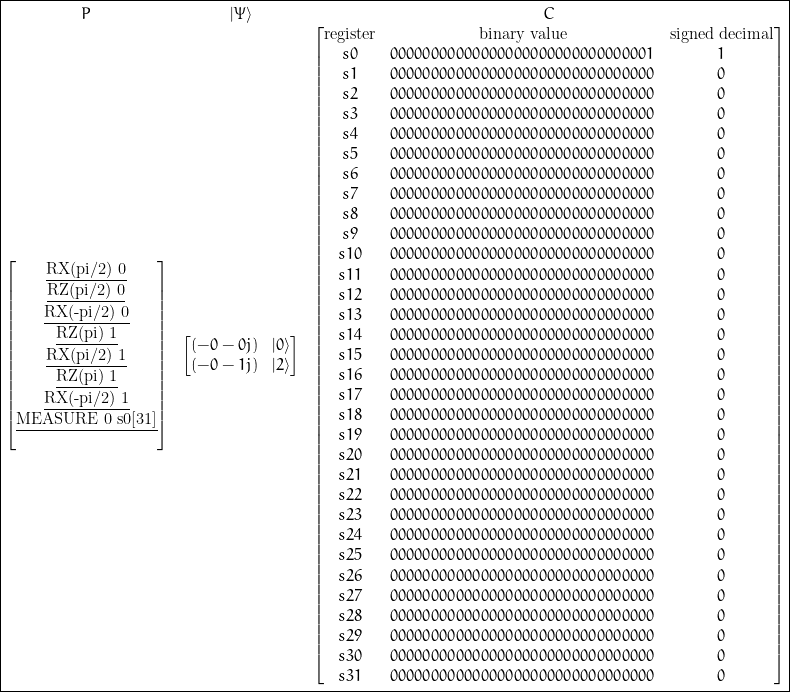
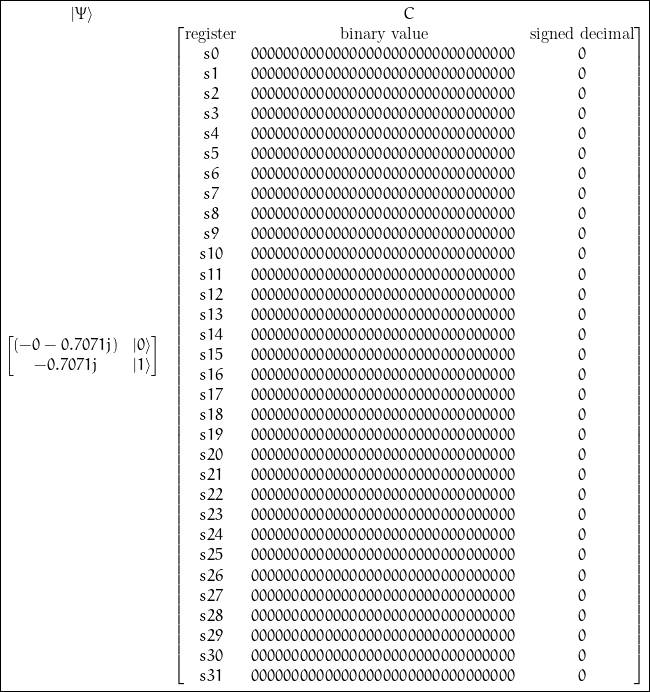
Add files via upload

diff --git a/pyQuil2.py b/pyQuil2.py
@@ -1,0 +1,90 @@
+from pyquil import Program,get_qc
+from pyquil.api import WavefunctionSimulator
+from sympy import preview
+from numpy import round
+import traceback
+from q9 import *
+from Convert import *
+import tkinter as tk
+from tkinter import PhotoImage,Button,Text,Label
+from threading import Thread
+
+# Create the main window
+parent = tk.Tk()
+parent.title("9q")
+PO = ProgramOutput("")
+PO.run_and_display()
+
+image = PhotoImage(file="QVMout.png")
+image_label = tk.Label(parent, image=image,borderwidth=5,relief='solid')
+def start_tryout():
+    compiled_program.configure(bg='yellow')
+    compiled_program.bg = 'yellow'
+    Thread(target=compute, daemon=True).start()
+    # deamon=True is important so that you can close the program correctly
+
+def compute():
+    #P = open("QuilProgram.txt",'r').read()
+    try:
+        compiled_program.delete("1.0",'end')
+        S = og_program.get("1.0","end-1c")
+        #S = open("mips_program.txt").read()
+        S = S.split("\n")
+        S = [extract_inst(s,PO.qc) for s in S]
+        P = "\n".join(S)
+        #print(S,"\n")
+        rep = PO.Burn(P)
+        if rep is not False:
+            compiled_program.insert("end","COMPILATION PROBLEM\n" + rep)
+            compiled_program.configure(bg='red')
+            compiled_program.bg = 'red'
+            return False
+        rep = PO.run()
+        if rep is not False:
+            compiled_program.insert("end","RUNTIME PROBLEM\n" + rep)
+            compiled_program.configure(bg='red')
+            compiled_program.bg = 'red'
+            return False
+        rep = PO.display()
+        if rep is not False:
+            compiled_program.insert("end","RENDERING PROBLEM\n" + rep)
+            compiled_program.configure(bg='red')
+            compiled_program.bg = 'red'
+            return False
+        image = PhotoImage(file="QVMout.png")
+        image_label.configure(image=image)
+        image_label.image = image
+        PC = PO.Program[41:]
+        compiled_program.configure(bg='light green')
+        compiled_program.bg = 'light green'
+        compiled_program.insert("end","\n".join(PC))
+        return True
+    except:
+        rep = traceback.format_exc()
+        compiled_program.delete("1.0",'end')
+        compiled_program.insert("end","GENERAL PROBLEM\n" + rep)
+        compiled_program.configure(bg='red')
+        compiled_program.bg = 'red'
+        return False
+og_program_label = Label(parent,text="Program")
+compiled_program_label = Label(parent,text="Compiled Program")
+output_label = Label(parent,text="States and Memory")
+og_program = Text(parent,bg='light yellow',width=30,height=29,borderwidth=3,relief='solid')
+compiled_program = Text(parent,bg='light green',width=30,height=29,borderwidth=3,relief='solid')
+compile_button=Button(command = start_tryout, text = "Compile and Run",borderwidth=3) ###
+og_program_label.grid(row=0,column=0,rowspan=1)
+compiled_program_label.grid(row=0,column=1,rowspan=1)
+output_label.grid(row=0,column=2,rowspan=1)
+og_program.grid(row=1,column=0,rowspan=3,columnspan=1)
+compiled_program.grid(row=1,column=1,rowspan=3,columnspan=1)
+image_label.grid(row=1,column=2,rowspan=3,columnspan=1)
+compile_button.grid(row=4,column=0,columnspan=3,ipadx=580)
+
+n_rows =5
+n_columns =3
+for i in range(n_rows):
+    parent.grid_rowconfigure(i,  weight =1)
+for i in range(n_columns):
+    parent.grid_columnconfigure(i,  weight =1)
+# Start the Tkinter event loop
+parent.mainloop()

diff --git a/q9.py b/q9.py
@@ -1,6 +1,7 @@
 from pyquil import Program,get_qc
 from pyquil.api import WavefunctionSimulator
 from numpy import round
+from sympy import preview
 import traceback
 from IPython.display import display_latex,Latex
 
@@ -274,9 +275,9 @@ class ProgramOutput:
         self.qc = get_qc(qc_name)
         self.wfs = WavefunctionSimulator()
         P = preproc(P)
-        P = "\n".join([f"DECLARE s{i} BIT[32]" for i in range(32)]) + P
+        P = "\n".join([f"DECLARE s{i} BIT[32]" for i in range(32)]) +"\n" + P
         P = Program(P)
-        P = self.qc.compile(P)
+        #P = self.qc.compile(P)
         P = str(P)
         P = P.split("\n")
         self.Program = P
@@ -286,9 +287,10 @@ class ProgramOutput:
 
     def Burn(self,P):
         try:
-            P = "\n".join([f"DECLARE s{i} BIT[32]" for i in range(32)]) + P
+            P = preproc(P)
+            P = "\n".join([f"DECLARE s{i} BIT[32]" for i in range(32)]) + "\n" + P
             P = Program(P)
-            P = self.qc.compile(P)
+            #P = self.qc.compile(P)
             P = str(P)
             P = P.split("\n")
             self.Program = P
@@ -338,6 +340,7 @@ class ProgramOutput:
         return "\n".join(s)
 
     def display(self,states=None,regs=range(32),canvas=None,ax=None):
+        try:
             psi = [str(round(self.outwfs[i],4)) for i in range(2**9)]
             if states is None:
                 psi = [psi[i] + r"& |" + str(i) + r"\rangle" for i in range(2**9) if psi[i]!="0j"]
@@ -370,8 +373,11 @@ class ProgramOutput:
             f = open("out.md",'w')
             f.write(Full)
             f.close()
-            #preview(Full,viewer="file",filename="QVMout.png")
+            preview(Full,viewer="file",filename="QVMout.png")
+            return False
             return Latex(Full)
+        except:
+            return traceback.format_exc()
 
     def run_and_display(self,i=None):
         self.run(i)

diff --git a/pyQuil1.py b/pyQuil1.py
@@ -6,7 +6,7 @@ import traceback
 
 class ProgramOutput:
     def __init__(self,P=""):
-        self.qc = get_qc("9q-square-qvm")
+        self.qc = get_qc("9q-qvm")
         self.wfs = WavefunctionSimulator()
         P = "\n".join([f"DECLARE s{i} BIT[32]" for i in range(32)]) + P
         P = Program(P)
@@ -102,15 +102,14 @@ class ProgramOutput:
             #P = r"\begin{bmatrix}" + P + r"\end{bmatrix}"
             #Full = r"$$ \boxed{\begin{matrix}" + r"P & |\Psi\rangle & C \\" + r" &".join([P,psi,R])+ r"\end{matrix}} $$"
             Full = r"$$ \boxed{\begin{matrix}" + r"|\Psi\rangle & C \\" + r" &".join([psi,R])+ r"\end{matrix}} $$"
-            #preview(Full,viewer="file",filename="QVMout.png")
-            return Full
+            preview(Full,viewer="file",filename="QVMout.png")
             return False
         except:
             return traceback.format_exc()
 
     def run_and_display(self,i=None):
         self.run(i)
-        return self.display()
+        self.display()
 
 import tkinter as tk
 from tkinter import PhotoImage,Button,Text,Label

diff --git a/Convert.py b/Convert.py
@@ -1,3 +1,4 @@
+from pyquil import Program
 REG_MAP = {
     "at":"s31","1":"s31",
     "k0":"s30","26":"s30",
@@ -24,7 +25,7 @@ for i in range(8):REG_MAP[f"s{i}"]=f"s{i}"
 for i in range(8):REG_MAP[f"{16+i}"]=f"s{i}" 
 
 QUBITS = 9
-def extract_inst(inst):
+def extract_inst(inst,qc=None):
     global REG_MAP,QUBITS
     inst = inst.split("#")[0]
     inst = inst.strip()
@@ -43,10 +44,16 @@ def extract_inst(inst):
         else:
             new_arg.append(x)
     if inst == "J":return f"JUMP @{new_arg[0]}"
-    elif inst[:5] == "GATE-":
+    elif inst[:5] == "GATE_":
         x = new_arg[0]
+        x = int(x)
         assert x>=0 and x<QUBITS,x
-        return f"{inst[5:]} {x}"
+        toret = f"{inst[5:]} {x}"
+        if qc is not None:
+            toret = Program(toret)
+            toret = qc.compile(toret)
+            toret = str(toret)
+        return toret
     elif inst == "MEASURE":
         if len(new_arg)==1:
             x = new_arg[0]

diff --git a/out.md b/out.md
@@ -1,1 +1,1 @@
-$$ \boxed{\begin{matrix}|\Psi\rangle & C \\\begin{bmatrix}(1+0j)& |0\rangle\end{bmatrix} &\begin{bmatrix}\text{register} & \text{binary value} & \text{signed decimal}\\ s0 & 00000000000000000000000000000000 & 0\\ s1 & 00000000000000000000000000000000 & 0\\ s2 & 00000000000000000000000000000000 & 0\\ s3 & 00000000000000000000000000000000 & 0\\ s4 & 00000000000000000000000000000000 & 0\\ s5 & 00000000000000000000000000000000 & 0\\ s6 & 00000000000000000000000000000000 & 0\\ s7 & 00000000000000000000000000000000 & 0\\ s8 & 00000000000000000000000000000101 & 5\\ s9 & 00000000000000000000000000000001 & 1\\ s10 & 00000000000000000000000000000000 & 0\\ s11 & 00000000000000000000000000000011 & 3\\ s12 & 00000000000000000000000000000000 & 0\\ s13 & 00000000000000000000000000000000 & 0\\ s14 & 00000000000000000000000000000000 & 0\\ s15 & 00000000000000000000000000000000 & 0\\ s16 & 00000000000000000000000000000000 & 0\\ s17 & 00000000000000000000000000000000 & 0\\ s18 & 00000000000000000000000000000000 & 0\\ s19 & 00000000000000000000000000000000 & 0\\ s20 & 00000000000000000000000000000000 & 0\\ s21 & 00000000000000000000000000000000 & 0\\ s22 & 00000000000000000000000000000000 & 0\\ s23 & 00000000000000000000000000000000 & 0\\ s24 & 00000000000000000000000000000000 & 0\\ s25 & 00000000000000000000000000000000 & 0\\ s26 & 00000000000000000000000000000000 & 0\\ s27 & 00000000000000000000000000000000 & 0\\ s28 & 00000000000000000000000000000000 & 0\\ s29 & 00000000000000000000000000000000 & 0\\ s30 & 00000000000000000000000000000000 & 0\\ s31 & 00000000000000000000000000001100 & 12 \end{bmatrix}\end{matrix}} $$
+$$ \boxed{\begin{matrix}|\Psi\rangle & C \\\begin{bmatrix}(-0-0.7071j)& |0\rangle \\ -0.7071j& |1\rangle\end{bmatrix} &\begin{bmatrix}\text{register} & \text{binary value} & \text{signed decimal}\\ s0 & 00000000000000000000000000000000 & 0\\ s1 & 00000000000000000000000000000000 & 0\\ s2 & 00000000000000000000000000000000 & 0\\ s3 & 00000000000000000000000000000000 & 0\\ s4 & 00000000000000000000000000000000 & 0\\ s5 & 00000000000000000000000000000000 & 0\\ s6 & 00000000000000000000000000000000 & 0\\ s7 & 00000000000000000000000000000000 & 0\\ s8 & 00000000000000000000000000000000 & 0\\ s9 & 00000000000000000000000000000000 & 0\\ s10 & 00000000000000000000000000000000 & 0\\ s11 & 00000000000000000000000000000000 & 0\\ s12 & 00000000000000000000000000000000 & 0\\ s13 & 00000000000000000000000000000000 & 0\\ s14 & 00000000000000000000000000000000 & 0\\ s15 & 00000000000000000000000000000000 & 0\\ s16 & 00000000000000000000000000000000 & 0\\ s17 & 00000000000000000000000000000000 & 0\\ s18 & 00000000000000000000000000000000 & 0\\ s19 & 00000000000000000000000000000000 & 0\\ s20 & 00000000000000000000000000000000 & 0\\ s21 & 00000000000000000000000000000000 & 0\\ s22 & 00000000000000000000000000000000 & 0\\ s23 & 00000000000000000000000000000000 & 0\\ s24 & 00000000000000000000000000000000 & 0\\ s25 & 00000000000000000000000000000000 & 0\\ s26 & 00000000000000000000000000000000 & 0\\ s27 & 00000000000000000000000000000000 & 0\\ s28 & 00000000000000000000000000000000 & 0\\ s29 & 00000000000000000000000000000000 & 0\\ s30 & 00000000000000000000000000000000 & 0\\ s31 & 00000000000000000000000000000000 & 0 \end{bmatrix}\end{matrix}} $$
